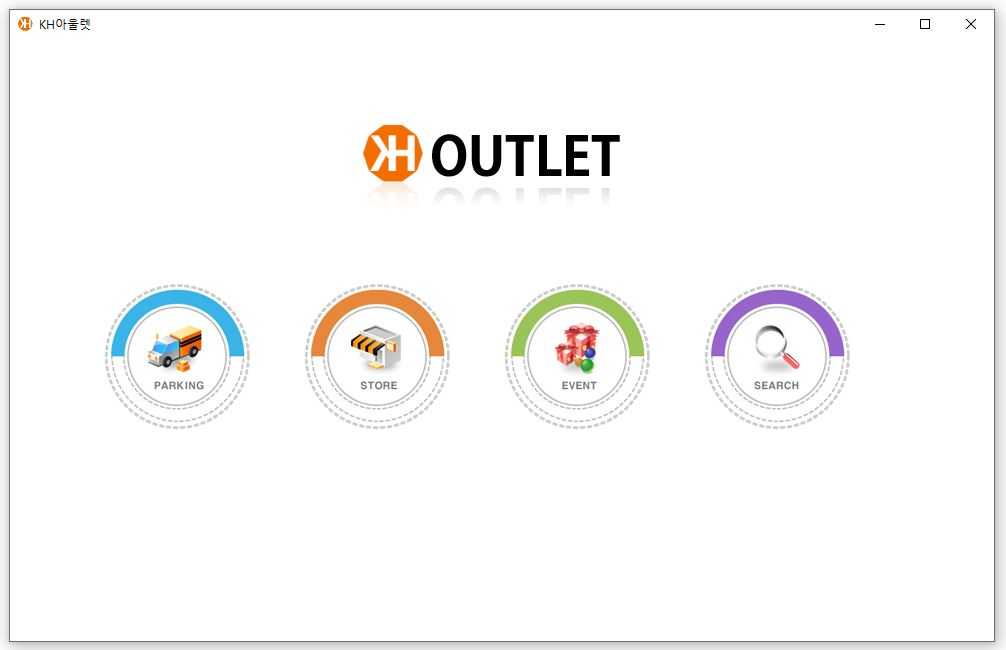
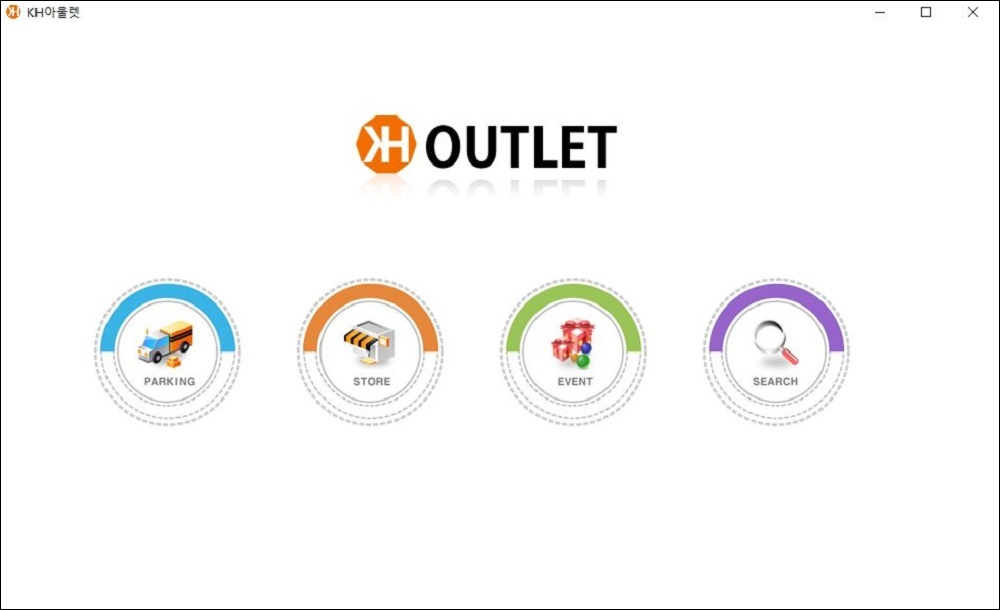
2020-03-28 Kwon
색좀 바꾸고~

diff --git a/views/SemiProject.html b/views/SemiProject.html
@@ -8,7 +8,7 @@
   <meta name="description" content="">
   <meta name="author" content="">
 
-  <title>미니 프로젝트 - KH아웃렛</title>
+  <title>세미 프로젝트 - PETNER</title>
 
   <!-- Bootstrap core CSS -->
   <link href="../resources/vendor/bootstrap/css/bootstrap.min.css" rel="stylesheet">
@@ -26,16 +26,16 @@
 
 <body id="page-top">
 
-  <nav class="navbar navbar-expand-lg navbar-dark bg-primary2 fixed-top" id="sideNav">
+  <nav class="navbar navbar-expand-lg navbar-dark bg-primary3 fixed-top" id="sideNav">
     <ul class="navbar-nav">
-      <li class="nav-item">
-          <a class="nav-link js-scroll-trigger" href="../index.html"><i class="fas fa-arrow-left"> BACK</i></a>
-      </li>
+        <li class="nav-item">
+            <a class="nav-link js-scroll-trigger" href="../index.html"><i class="fas fa-arrow-left"> BACK</i></a>
+        </li>
     </ul>
     <a class="navbar-brand js-scroll-trigger" href="#page-top">
       <span class="d-block d-lg-none">Mini Project</span>
       <span class="d-none d-lg-block">
-        <img class="img-fluid img-profile rounded-circle mx-auto mb-2" src="../resources/img/mini_logo.JPG" alt="">
+        <img class="img-fluid img-profile rounded-circle mx-auto mb-2" src="../resources/img/petner_small_logo.jpg" alt="" style="max-width: 120%;">
       </span>
     </a>
     <button class="navbar-toggler" type="button" data-toggle="collapse" data-target="#navbarSupportedContent" aria-controls="navbarSupportedContent" aria-expanded="false" aria-label="Toggle navigation">
@@ -44,7 +44,7 @@
     <div class="collapse navbar-collapse" id="navbarSupportedContent">
       <ul class="navbar-nav">
         <li class="nav-item">
-          <a class="nav-link js-scroll-trigger" href="#MiniProject">Mini Project</a>
+          <a class="nav-link js-scroll-trigger" href="#SemiProject">Semi Project</a>
         </li>
         <li class="nav-item">
           <a class="nav-link js-scroll-trigger" href="#about">ABOUT</a>
@@ -57,16 +57,18 @@
         </li>
         <li class="nav-item">
           <a class="nav-link js-scroll-trigger" href="#review">review</a>
+        </li>
+        </li>
       </ul>
     </div>
   </nav>
 
   <div class="container-fluid p-0">
 
-    <section class="resume-section p-3 p-lg-5 d-flex align-items-center" id="MiniProject">
+    <section class="resume-section p-3 p-lg-5 d-flex align-items-center" id="SemiProject">
       <div class="w-100">
-        <h1 class="mb-0"><span class="kwon-01">Mini Project</span><br>
-          <span class="text-primary2">KH아웃렛</span>
+        <h1 class="mb-0"><span class="kwon-01">Semi Project</span><br>
+          <span class="text-primary3">PETNER</span>
         </h1>
 
       </div>
@@ -82,10 +84,16 @@
           <div class="resume-content">
             <h3 class="mb-0">Mini Project</h3>
             <div class="subheading mb-3"></div>
-            <div>구현기간 : <span class="text-primary">2019-11-11 ~ 2019-11-18</span></div><br>
-            <p>주제 : 'KH아웃렛'이라는 가상의 아웃렛 소개 및 매장안내, 주차등 고객편의를 위한 프로그램입니다.</p>
-            <p>&lt;개발환경&gt;<br>language : JAVA<br>IDE : eclipse<br>etc : SWING GUI
+            <div>구현기간 <br>
+                기획 : <span class="text-primary">2020-01-10 ~ </span><br>
+                구현 : <span class="text-primary">2020-02-05 ~ 2020-02-21</span></div><br>
+            <p>주제 : 반려동물을 위한 호텔, 미용, 병원 등의 중개 사이트입니다.
+                </p>
+            <p>&lt;개발환경&gt;<br>language : JAVA, HTML5, CSS3, JavaScript<br>Tools : eclipse, Visual Studio Code, sqldeveloper
+                <br>DBMS : Oracle DB<br>Server : Apache Tomcat 8.5
             </p>
+            <p>JSP/Servlet 기반의 홈페이지입니다. </p>
+
 
           </div>
         </div>
@@ -107,11 +115,12 @@
         
         <table>
           <tr>
-            <td><img src="../resources/img/mini_main.JPG" class="kwon-img01"></td>
+            <td><img src="../resources/img/petner_main.JPG" class="kwon-img01"></td>
           </tr>
           <tr>
-            <td class="kwon-td01">프로젝트 메인 화면입니다.<br>
-              주요 기능으로는 주차관련, 매장안내, 이벤트안내, 매장검색이 있습니다.</td>
+            <td class="kwon-td02">프로젝트 메인 화면입니다.<br>
+              
+            </td>
           </tr>
         </table>
 
@@ -230,7 +239,6 @@
             <li>차량 주차위치 확인 후 뒤로가기 or 출차가능</li>
             <li>사전출차시 시간을 계산하여 요금계산, 15분(혹은 설정한 시간)이내로 출차를 요청하는 알림</li>
           </ul>
-          이 정도입니다.
         </p>
       </div>
       <div>
@@ -242,27 +250,26 @@
           </tr>
           <Tr>
             <td class="kwon-td03">주차데이터관리는 .dat파일을 만들어서 그 안에 쌓이도록 하였습니다.<br>
-              또한, 주차관련 데이터가 변경될 때는 ObjectIntputStream("first.dat")파일을 불러온 후, 값을 변경합니다.<br>
+              또한, 주차관련 데이터가 변경될 때는 ObjectIntputStream("first.dat")파일을 불러온 후, 값 변경<br>
               그리고 그 값을 다시 ObjectOutputStream("first.dat")으로 저장합니다.</td>
-            <td class="kwon-td03">주차 자리가 비어있나 확인 후<br> 비어있으면 초록색, 비어있지 않으면 붉은색으로 표시합니다.<br>
-                  비어있는 공간을 누르면 값을 입력 한 후 , 저장합니다.</td>
+            <td class="kwon-td03">주차 자리가 비어있나 확인 후<br> 비어있으면 초록색, 차 있으면 붉은색으로 표시합니다.<br>
+                  비어있는 공간을 누르면 값 입력 후 , 저장합니다.</td>
           </Tr>
           <tr class="kwon-tr02">
             <td class="kwon-td02"><img src="../resources/img/parking03.JPG" class="kwon-img02 modal-img02"></td>
             <td class="kwon-td02"><img src="../resources/img/parking04.JPG" class="kwon-img02 modal-img02"></td>
           </tr>
           <Tr>
-            <td class="kwon-td03">자신의 주차 자리를 찾아주는 메소드입니다.<br>
-              전화번호 값, 차량번호 값 둘 중 하나만 들어오면<br> 찾기 메소드를 실행시킵니다.<br>
-              만약 두개의 값이 모두 없으면 "잘못 입력하셨습니다"가 출력됩니다.<br>
-              값을 입력받은 후<br> 값이 null이 아니고 맞는 값이 있으면 true 반환되고<br>
-              null값이 아니지만, 맞는 값이 없으면<br> "차량을 찾을 수 없습니다"가 출력됩니다.<br>
+            <td class="kwon-td03">주차 자리를 찾아주는 메소드<br>
+              전화번호 값, 차량번호 값 둘 중 하나만 들어오면 찾기 메소드 실행
+              만약 두개의 값이 모두 없으면 "잘못 입력하셨습니다" 출력<br>
+              값을 입력받은 후, 값이 null이 아니고, 맞는 값이 있으면 true 반환<br>
+              null값이 아니지만, 맞는 값이 없으면 "차량을 찾을 수 없습니다" 출력<br>
               </td>
             <td class="kwon-td03">주차자리 확인 후, 혹은 주차요금 정산을 누르면<br>
-              주차요금 정산 페이지로 이동됩니다.<br>
+              주차요금 정산 페이지로 이동<br>
               주차예약을 할 때 저장해놓은 시간과<br>
-              현재 시간을 비교한 뒤에, 30분마다 1000원씩 부과됩니다.<br>
-              (값과 시간은 임의의 값으로 잡아놓았습니다.)
+              현재 시간을 비교한 뒤에, 30분마다 1000원씩 부과<br>
             </td>
           </Tr>
         </table>
@@ -310,13 +317,6 @@
           <h3 class="mb-0">소감</h3>
           <div class="subheading mb-3"></div>
           <p>
-            처음 자바를 배운지 1달이 조금 넘었을 즈음 미니프로젝트 시작<br>
-            아마 제대로 된 프로젝트를 들어가기 전 프로젝트가 어떤건지 맛을 보라는 선생님의 의도였던 것 같다.<br>
-            또한 지금까지 배운 것들을 제대로 사용해보라는 것이었을지도..<Br>
-            단순히 자바만을 가지고 프로그래밍, 화면출력은 Swing GUI를 사용<br><br>
-            좋지 않은 실력이었지만 너무도 조용한 우리 조원들 중에 그나마 말이라도 한다는 이유로 추천받은 조장..<br>
-            비전공자에 처음 해보는 프로젝트라 시작하기전에 잠도 제대로 못 잤지만 며칠만에 제대로 된(?) 결과물이 나왔다<br>
-            생각보다 빠른 시간에 만들어졌고 마음만 앞서는 조장을 잘 도와준 조원들께 고마울 뿐이었다.
           
           </p>
         

diff --git a/index.html b/index.html
@@ -31,7 +31,7 @@
     <a class="navbar-brand js-scroll-trigger" href="#page-top">
       <span class="d-block d-lg-none">Kwon Gu Hyun</span>
       <span class="d-none d-lg-block">
-        <img class="img-fluid img-profile rounded-circle mx-auto mb-2" src="resources/img/profile.JPG" alt="">
+        <img class="img-fluid img-profile rounded-circle mx-auto mb-2" src="resources/img/121.jpg" alt="">
       </span>
     </a>
     <button class="navbar-toggler" type="button" data-toggle="collapse" data-target="#navbarSupportedContent" aria-controls="navbarSupportedContent" aria-expanded="false" aria-label="Toggle navigation">
@@ -62,7 +62,7 @@
 
     <section class="resume-section p-3 p-lg-5 d-flex align-items-center" id="about">
       <div class="w-100">
-        <h1 class="mb-0"><span class="kwon-01">Web Developer</span>
+        <h1 class="mb-0"><span class="kwon-01">Web Developer</span><br>
           <span class="text-primary">권구현</span>
         </h1>
         <!-- <div class="subheading mb-5">
@@ -115,25 +115,28 @@
         <div class="subheading mb-3">Programming Languages &amp; Tools</div>
         <ul class="list-inline dev-icons">
           <li class="list-inline-item">
-            <i class="fab fa-java" title="JAVA"></i>
+            <img src="resources/img/java_icon.png" style="width: 42px; height: auto;" title="JAVA"></i>          
           </li>
           <li class="list-inline-item">
-            <i class="fab fa-html5" title="html5"></i>
+            <img src="resources/img/html_icon.png" style="width: 42px; height: auto;" title="HTML5"></i>          
           </li>
           <li class="list-inline-item">
-            <i class="fab fa-css3-alt" title="css3"></i>
+            <img src="resources/img/css_icon.jpg" style="width: 42px; height: auto;" title="CSS3"></i>          
           </li>
           <li class="list-inline-item">
-            <i class="fab fa-js-square" title="JavaScript"></i>
+            <img src="resources/img/js_icon.png" style="width: 42px; height: auto;" title="JavaScript"></i>          
           </li>
           <li class="list-inline-item">
-            <i class="fas fa-database" title="oracle DB"></i>
+            <img src="resources/img/oracle_icon.png" style="width: 42px; height: auto;" title="Oracle DB"></i>          
           </li>          
           <li class="list-inline-item">
-            <img src="resources/img/jquery_icon.png" style="width: 42px; height: auto;" title="jquery"></i>          
+            <img src="resources/img/jquery_icon.png" style="width: 42px; height: auto;" title="jQuery"></i>          
           </li>
           <li class="list-inline-item">
-            <img src="resources/img/spring_icon.png" style="width: 42px; height: auto;" title="springframework"></i>          
+            <img src="resources/img/mybatis_icon.png" style="width: 42px; height: auto;" title="myBatis"></i>          
+          </li>
+          <li class="list-inline-item">
+            <img src="resources/img/spring_icon.png" style="width: 42px; height: auto;" title="SpringFramework"></i>          
           </li>
 
 
@@ -171,16 +174,16 @@
     <section class="resume-section p-3 p-lg-5 d-flex align-items-center" id="Project">
       <div class="w-100">
         <h2 class="mb-5">Project</h2>
-        <p>Apart from being a web developer, I enjoy most of my time being outdoors. In the winter, I am an avid skier and novice ice climber. During the warmer months here in Colorado, I enjoy mountain biking, free climbing, and kayaking.</p>
+        <p>각종 프로젝트입니다.</p>
         <table>
           <tr>
-            <td><a href="views/miniProject.html"><img src="resources/img/mini_main.JPG" class="kwon-img01" title="미니 프로젝트"></a></td>
-            <td><a href="#"><img src="resources/img/ready.png" class="kwon-img01"></a></td>
-            <td><a href="#"><img src="resources/img/ready.png" class="kwon-img01"></a></td>
+            <td class="td001"><a href="views/miniProject.html"><img src="resources/img/mini_main.JPG" class="kwon-img01" title="미니 프로젝트"></a></td>
+            <td class="td001"><a href="views/SemiProject.html"><img src="resources/img/petner_main.JPG" class="kwon-img01" title="세미 프로젝트 PETNER"></a></td>
+            <td class="td001"><a href="#"><img src="resources/img/ready.png" class="kwon-img01"></a></td>
           </tr>
           <tr>
             <td class="kwon-td01"><a href="views/miniProject.html">Mini Project</a></td>
-            <td class="kwon-td01"><a href="#">Semi Project</a></td>
+            <td class="kwon-td01"><a href="views/SemiProject.html">Semi Project</a></td>
             <td class="kwon-td01"><a href="#">Final Project</a></td>
           </tr>
         </table>

diff --git a/resources/css/resume.css b/resources/css/resume.css
@@ -163,10 +163,24 @@ section.resume-section .resume-item .resume-date {
   background-color: rgb(66, 141, 255) !important;
   /* background-image: linear-gradient(red,orange,yellow,green,blue,darkblue,purple) !important */
 }
+.bg-primary2{
+  background-color: lightseagreen;
+}
+.bg-primary3{
+  background-color: #9a2c9a;
+}
+
 
 .text-primary {
   color: rgb(66, 141, 255) !important;
 }
+.text-primary2 {
+  color: lightseagreen !important;
+}
+.text-primary3 {
+  color: #9a2c9a !important;
+}
+
 
 a {
   color: rgb(66, 141, 255);
@@ -185,16 +199,20 @@ a:hover, a:focus, a:active {
   max-width: 100%;
   margin: 2%;
 }
+
 .kwon-td01 {
   text-align: center;
   font-size: 22px;
   font-weight: 700;
   color: lightseagreen;
 }
+.td001 {
+  padding: 2%;
+}
 
 .kwon-img02 {
   max-width: 80%;
-  margin: 2%;
+  margin: 5%;
   cursor: pointer;
 }
 .kwon-td02 {
@@ -203,4 +221,23 @@ a:hover, a:focus, a:active {
 .kwon-td03 {
   padding-left: 1%;
   padding-right: 1%;
+}
+
+#SemiProject {
+  position: relative;
+  z-index:1;
+}
+#SemiProject:after {
+  background-image: url(../img/petner_main.JPG);
+  top:10%;
+  left:0;
+  position:absolute;
+  background-size:100%;
+  opacity:0.2!important;
+  filter:alpha(opacity=50);
+  z-index:-1;
+  content:"";
+  width:100%;
+  height:100%;
+  background-repeat: no-repeat;
 }
